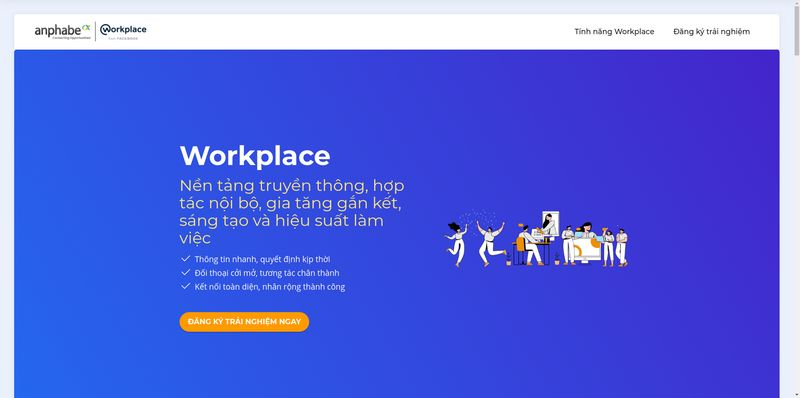
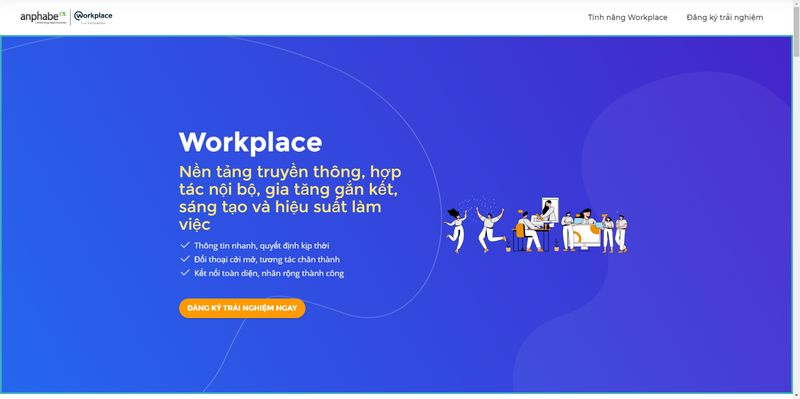
update

Changed region(s): [[0.0, 0.0302, 1.0, 1.0], [0.2188, 0.3317, 0.5312, 0.8442], [0.5312, 0.4824, 0.8125, 0.6935]]

diff --git a/thankyou.html b/thankyou.html
@@ -60,7 +60,7 @@ j=d.createElement(s),dl=l!='dataLayer'?'&l='+l:'';j.async=true;j.src=
 </section>
 
 
-  <section class="engine"><a href="https://mobirise.info/l">free web templates</a></section><script src="assets/web/assets/jquery/jquery.min.js"></script>
+  <section class="engine"><a href="https://mobirise.info/k">how to develop free website</a></section><script src="assets/web/assets/jquery/jquery.min.js"></script>
   <script src="assets/popper/popper.min.js"></script>
   <script src="assets/tether/tether.min.js"></script>
   <script src="assets/bootstrap/js/bootstrap.min.js"></script>

diff --git a/index.html b/index.html
@@ -71,7 +71,7 @@ j=d.createElement(s),dl=l!='dataLayer'?'&l='+l:'';j.async=true;j.src=
     </nav>
 </section>
 
-<section class="engine"><a href="https://mobirise.info/b">create your own site for free</a></section><section class="header9 cid-saCY7M6val mbr-fullscreen mbr-parallax-background" id="header9-2">
+<section class="engine"><a href="https://mobirise.info/i">free web creation software</a></section><section class="header9 cid-saCY7M6val mbr-fullscreen mbr-parallax-background" id="header9-2">
 
     
 

diff --git a/assets/mobirise/css/mbr-additional.css b/assets/mobirise/css/mbr-additional.css
@@ -1104,7 +1104,7 @@ a {
   }
 }
 .cid-saCY7M6val {
-  background: url("file:///D:/Mobirise/workplace/workplace/assets/images/header-img.png"), linear-gradient(60deg, #2568ef 0%, #4524cb 100%) !important;
+  background: url("../../../assets/images/header-img.png");
   padding-bottom: 0!important;
   min-height: 90vh;
 }
